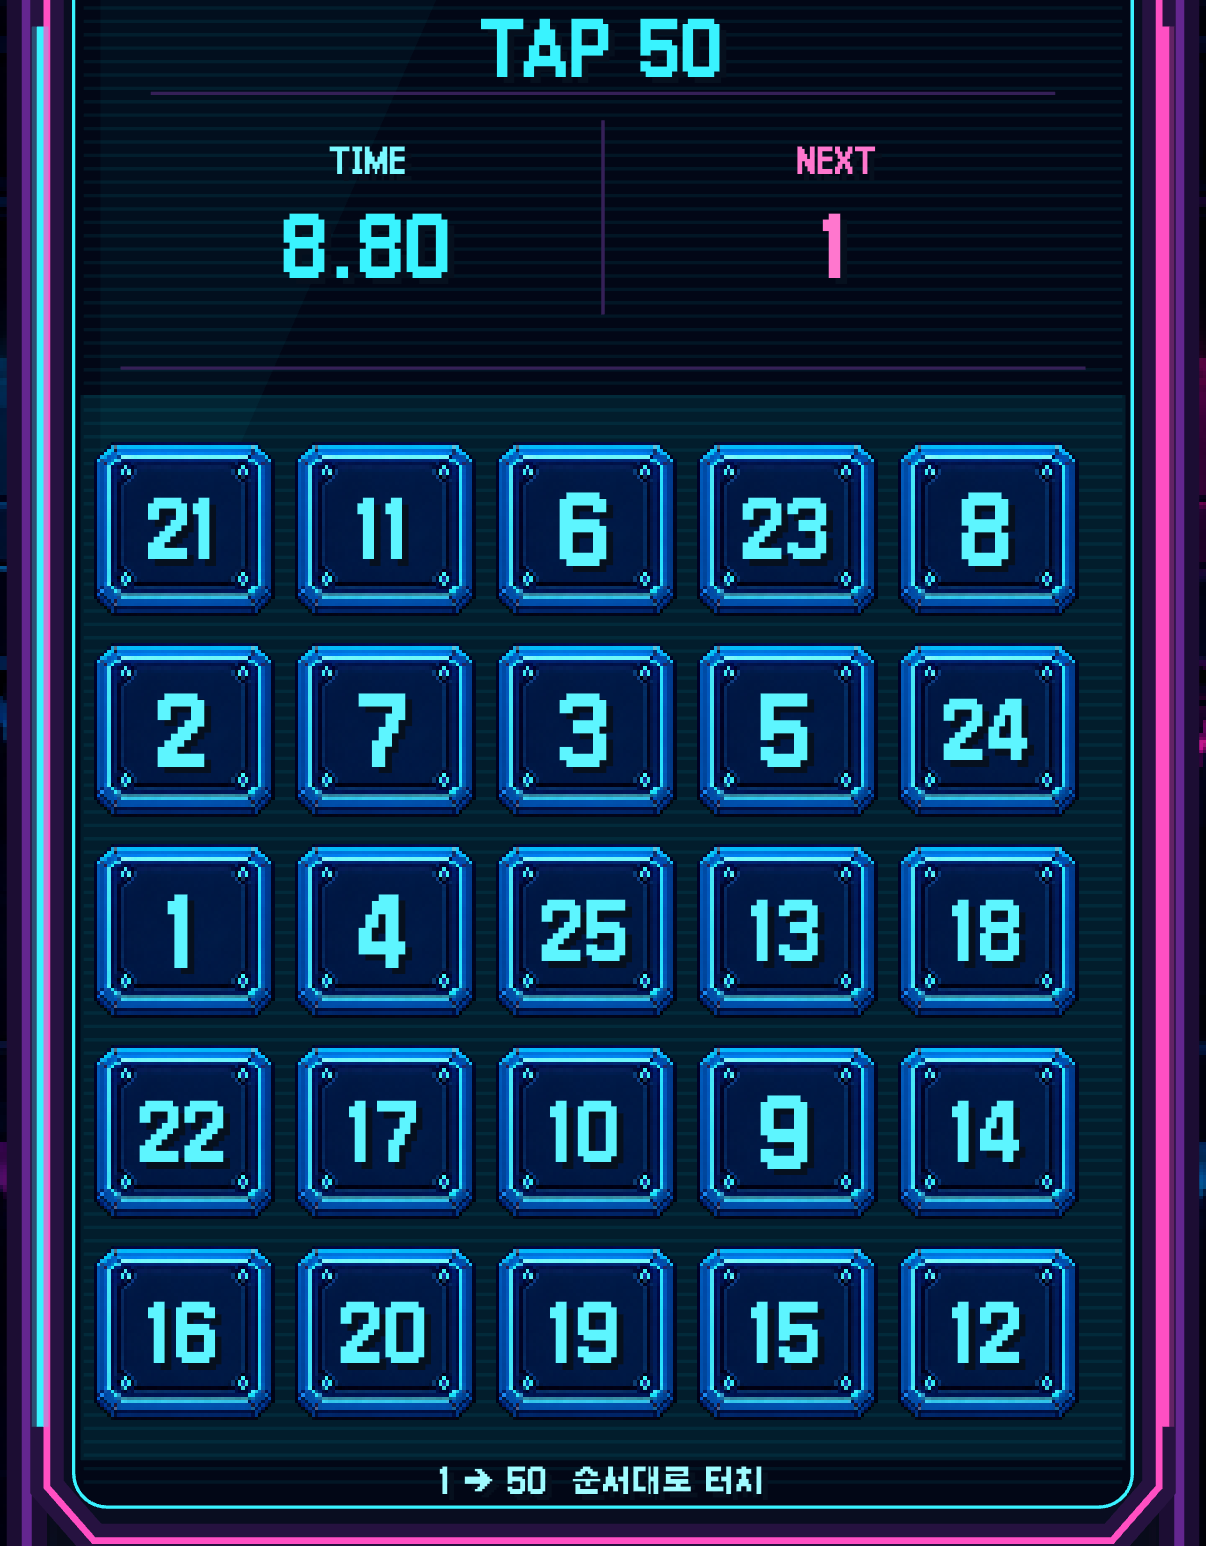
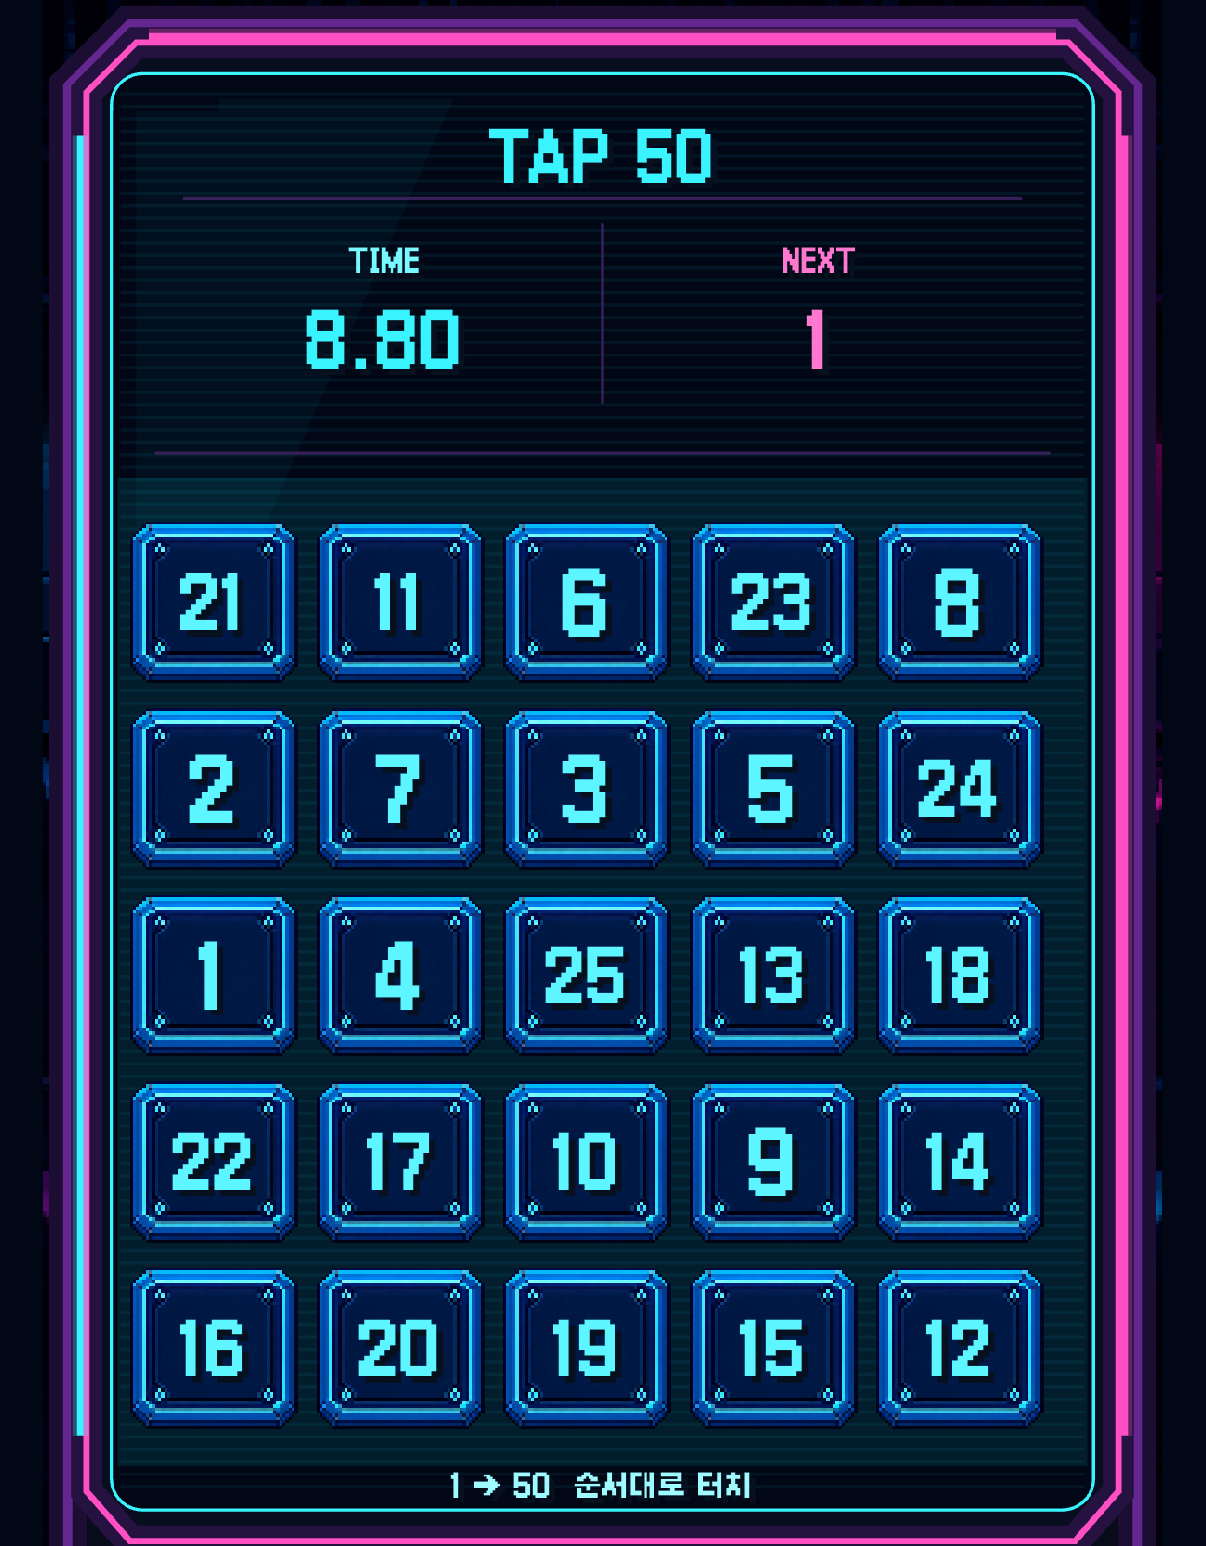
feat: refine home gameplay guide captures

diff --git a/just-one-round/lib/features/today/presentation/today_screen.dart b/just-one-round/lib/features/today/presentation/today_screen.dart
@@ -2955,16 +2955,16 @@ class _NumberRushHomePreviewState extends State<_NumberRushHomePreview> {
         builder: (context, constraints) {
           final width = constraints.maxWidth;
           final height = constraints.maxHeight;
-          final tileSize = width * (56 / 360);
+          final tileSize = width * 0.1444;
           return Stack(
             key: const Key('number-rush-home-tap-animation'),
             fit: StackFit.expand,
             children: [
               Positioned(
-                left: width * 0.22,
-                top: height * 0.13,
-                width: width * 0.18,
-                height: height * 0.08,
+                left: width * 0.2398,
+                top: height * 0.1927,
+                width: width * 0.167,
+                height: height * 0.0743,
                 child: ColoredBox(
                   color: const Color(0xFF020715),
                   child: Center(
@@ -2984,29 +2984,29 @@ class _NumberRushHomePreviewState extends State<_NumberRushHomePreview> {
               _NumberRushHomeTapTile(
                 number: 1,
                 frame: firstFrame,
-                left: width * (27 / 360),
-                top: height * 0.542,
+                left: width * 0.1053,
+                top: height * 0.575,
                 size: tileSize,
               ),
               _NumberRushHomeTapTile(
                 number: 2,
                 frame: secondFrame,
-                left: width * (27 / 360),
-                top: height * 0.411,
+                left: width * 0.1053,
+                top: height * 0.4534,
                 size: tileSize,
               ),
               _NumberRushHomeTapTile(
                 number: 3,
                 frame: thirdFrame,
-                left: width * (147 / 360),
-                top: height * 0.411,
+                left: width * 0.4145,
+                top: height * 0.4534,
                 size: tileSize,
               ),
               Positioned(
-                left: width * 0.65,
-                top: height * 0.13,
-                width: width * 0.09,
-                height: height * 0.08,
+                left: width * 0.6388,
+                top: height * 0.1927,
+                width: width * 0.0835,
+                height: height * 0.0743,
                 child: ColoredBox(
                   color: const Color(0xFF020715),
                   child: Center(
@@ -4273,10 +4273,10 @@ class _GravityRuntimeGuide extends StatelessWidget {
     }
 
     final assetPath = switch (mode) {
-      _GravityGuideMode.control || _GravityGuideMode.landing =>
+      _GravityGuideMode.control =>
+        'assets/images/gravity_switch_v2/gravity_runtime_tap.webp',
+      _GravityGuideMode.landing || _GravityGuideMode.obstacle =>
         'assets/images/gravity_switch_v2/gravity_runtime_control.webp',
-      _GravityGuideMode.obstacle =>
-        'assets/images/gravity_switch_v2/gravity_runtime_obstacle.webp',
       _GravityGuideMode.collision =>
         'assets/images/gravity_switch_v2/gravity_runtime_collision.webp',
       _GravityGuideMode.difficulty => throw StateError(
@@ -4297,7 +4297,7 @@ class _GravityRuntimeGuide extends StatelessWidget {
           const Positioned(
             left: 116,
             top: 112,
-            child: _GravityTapCue(label: 'TAP'),
+            child: _GravityTapCue(label: 'TAP ↑↓'),
           ),
         if (mode == _GravityGuideMode.landing)
           const Positioned(

diff --git a/just-one-round/test/features/today/gravity_today_screen_test.dart b/just-one-round/test/features/today/gravity_today_screen_test.dart
@@ -6,7 +6,7 @@ import 'package:just_one_round/features/today/domain/today_state.dart';
 import 'package:just_one_round/features/today/presentation/today_screen.dart';
 
 void main() {
-  testWidgets('그래비티 스위치 메인 애니메이션은 TIME과 함께 반복한다', (tester) async {
+  testWidgets('중력 스위치 메인 애니메이션은 TIME과 함께 반복한다', (tester) async {
     await tester.pumpWidget(
       ProviderScope(
         overrides: [
@@ -17,7 +17,7 @@ void main() {
     );
     await tester.pumpAndSettle();
 
-    expect(find.text('그래비티 스위치'), findsOneWidget);
+    expect(find.text('중력 스위치'), findsOneWidget);
     expect(find.byKey(const Key('gravity-home-animation')), findsOneWidget);
     expect(
       find.byWidgetPredicate(
@@ -50,7 +50,7 @@ void main() {
     expect(tester.takeException(), isNull);
   });
 
-  testWidgets('그래비티 스위치 설명서는 실제 규칙과 KO GAME OVER를 네 페이지로 안내한다', (tester) async {
+  testWidgets('중력 스위치 설명서는 실제 규칙과 KO GAME OVER를 네 페이지로 안내한다', (tester) async {
     await tester.pumpWidget(
       ProviderScope(
         overrides: [
@@ -79,7 +79,7 @@ void main() {
             widget is Image &&
             widget.image is AssetImage &&
             (widget.image as AssetImage).assetName.endsWith(
-              'gravity_switch_v2/gravity_runtime_control.webp',
+              'gravity_switch_v2/gravity_runtime_tap.webp',
             ),
       ),
       findsOneWidget,
@@ -97,6 +97,17 @@ void main() {
     expect(find.textContaining('고철 벽이 캐릭터 옆을 지나갑니다'), findsOneWidget);
     expect(
       find.byKey(const ValueKey('gravity-runtime-obstacle')),
+      findsOneWidget,
+    );
+    expect(
+      find.byWidgetPredicate(
+        (widget) =>
+            widget is Image &&
+            widget.image is AssetImage &&
+            (widget.image as AssetImage).assetName.endsWith(
+              'gravity_switch_v2/gravity_runtime_control.webp',
+            ),
+      ),
       findsOneWidget,
     );
 
@@ -124,7 +135,7 @@ void main() {
     expect(tester.takeException(), isNull);
   });
 
-  testWidgets('그래비티 스위치 설명서는 짧은 화면에서도 모든 페이지가 잘리지 않는다', (tester) async {
+  testWidgets('중력 스위치 설명서는 짧은 화면에서도 모든 페이지가 잘리지 않는다', (tester) async {
     await tester.binding.setSurfaceSize(const Size(390, 700));
     addTearDown(() => tester.binding.setSurfaceSize(null));
     await tester.pumpWidget(
@@ -160,7 +171,7 @@ class _GravityRepository extends PreviewDailyGameRepository {
     game: const TodayGame(
       id: 'gravity_switch',
       version: 1,
-      displayName: '그래비티 스위치',
+      displayName: '중력 스위치',
       description: '입체 기둥 미로를 돌파하세요.',
       durationSeconds: 180,
     ),

diff --git a/just-one-round/test/features/games/gravity_switch_assets_test.dart b/just-one-round/test/features/games/gravity_switch_assets_test.dart
@@ -36,6 +36,7 @@ void main() {
   test('메인과 설명서 캡처는 실제 런타임의 다중 프레임 애니메이션이다', () async {
     const captures = {
       'gravity_runtime_main.webp': (360, 462),
+      'gravity_runtime_tap.webp': (360, 268),
       'gravity_runtime_control.webp': (360, 268),
       'gravity_runtime_obstacle.webp': (360, 268),
       'gravity_runtime_hard.webp': (360, 268),

diff --git a/just-one-round/tool/process_number_rush_guide_assets.py b/just-one-round/tool/process_number_rush_guide_assets.py
@@ -15,8 +15,10 @@ RUNTIME_OUTPUT = ROOT / "assets/images/number_rush/home_gameplay_hero.png"
 META_OUTPUT = CAPTURE_DIR / "pipeline-meta.json"
 
 SOURCE_SIZE = (1206, 2622)
-HERO_CROP = (0, 360, 1206, 1906)
+HERO_CROP = (0, 240, 1206, 1906)
 HERO_SIZE = (1206, 1546)
+CAPTURE_CLOSE_REPAIR_SIZE = (190, 120)
+HERO_BACKGROUND = (2, 7, 21)
 
 
 def build_home_preview() -> None:
@@ -26,9 +28,30 @@ def build_home_preview() -> None:
 
     RUNTIME_OUTPUT.parent.mkdir(parents=True, exist_ok=True)
 
-    hero = capture.convert("RGB").crop(HERO_CROP)
-    if hero.size != HERO_SIZE:
-        raise ValueError(f"Unexpected Number Rush hero size: {hero.size}")
+    capture = capture.convert("RGB")
+    hero_crop = capture.crop(HERO_CROP)
+    repair_width, repair_height = CAPTURE_CLOSE_REPAIR_SIZE
+    clean_corner = capture.crop(
+        (
+            SOURCE_SIZE[0] - repair_width,
+            HERO_CROP[1],
+            SOURCE_SIZE[0],
+            HERO_CROP[1] + repair_height,
+        )
+    ).transpose(Image.Transpose.FLIP_LEFT_RIGHT)
+    hero_crop.paste(clean_corner, (0, 0))
+
+    scale = min(
+        HERO_SIZE[0] / hero_crop.width,
+        HERO_SIZE[1] / hero_crop.height,
+    )
+    scaled_size = (
+        round(hero_crop.width * scale),
+        round(hero_crop.height * scale),
+    )
+    scaled = hero_crop.resize(scaled_size, Image.Resampling.NEAREST)
+    hero = Image.new("RGB", HERO_SIZE, HERO_BACKGROUND)
+    hero.paste(scaled, ((HERO_SIZE[0] - scaled.width) // 2, 0))
     hero.save(RUNTIME_OUTPUT, optimize=True)
 
     META_OUTPUT.write_text(
@@ -42,12 +65,15 @@ def build_home_preview() -> None:
                 "crop": {
                     "x": HERO_CROP[0],
                     "y": HERO_CROP[1],
-                    "width": HERO_SIZE[0],
-                    "height": HERO_SIZE[1],
+                    "width": HERO_CROP[2] - HERO_CROP[0],
+                    "height": HERO_CROP[3] - HERO_CROP[1],
                 },
                 "processing": (
-                    "lossless gameplay crop containing the live TIME/NEXT HUD "
-                    "and complete 5x5 board; no generative edits"
+                    "runtime gameplay crop containing the live TIME/NEXT HUD "
+                    "and complete 5x5 board, uniformly scaled into the fixed "
+                    "home card so the upper and lower cabinet edges remain "
+                    "visible; the captured close-control overlap is restored "
+                    "from the cabinet's symmetric clean corner"
                 ),
                 "capture_note": (
                     "Live TAP 50 board using the original procedural cabinet; "
@@ -55,10 +81,14 @@ def build_home_preview() -> None:
                 ),
                 "art_contract": {
                     "home_aspect_ratio": 0.78,
-                    "content_occupancy": "edge-to-edge gameplay hero",
+                    "content_occupancy": (
+                        "uniformly scaled gameplay hero with narrow side insets"
+                    ),
                     "filter_quality": "nearest-neighbor / none",
                     "safe_core": "TIME, NEXT, and the complete 5x5 board",
-                    "viewport_crop": "fixed approved portrait crop",
+                    "viewport_crop": (
+                        "fixed portrait crop with complete cabinet screen edges"
+                    ),
                 },
             },
             ensure_ascii=False,

diff --git a/just-one-round/tool/process_gravity_switch_runtime_frames.py b/just-one-round/tool/process_gravity_switch_runtime_frames.py
@@ -127,13 +127,18 @@ def add_collision_result(frames: List[Image.Image]) -> List[Image.Image]:
     return result
 
 
-def save_animation(name: str, frames: List[Image.Image]) -> None:
+def save_animation(
+    name: str,
+    frames: List[Image.Image],
+    *,
+    duration_ms: int = FRAME_DURATION_MS,
+) -> None:
     output = RUNTIME_ROOT / name
     frames[0].save(
         output,
         save_all=True,
         append_images=frames[1:],
-        duration=FRAME_DURATION_MS,
+        duration=duration_ms,
         loop=0,
         lossless=True,
         quality=100,
@@ -153,6 +158,11 @@ def main() -> None:
     save_animation(
         "gravity_runtime_main.webp",
         add_loop_fade(add_main_hud(crop_frames(control, MAIN_CROP))),
+    )
+    save_animation(
+        "gravity_runtime_tap.webp",
+        add_loop_fade(crop_frames(control[6:35], GUIDE_CROP), count=2),
+        duration_ms=75,
     )
     save_animation(
         "gravity_runtime_control.webp",
